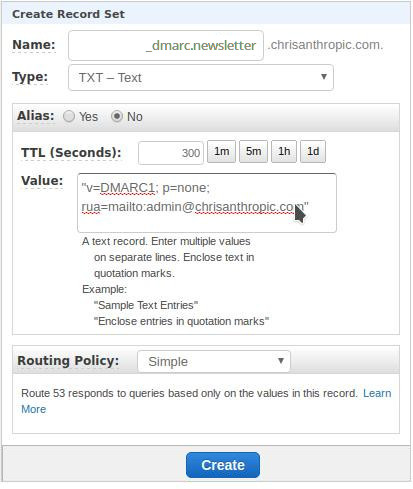
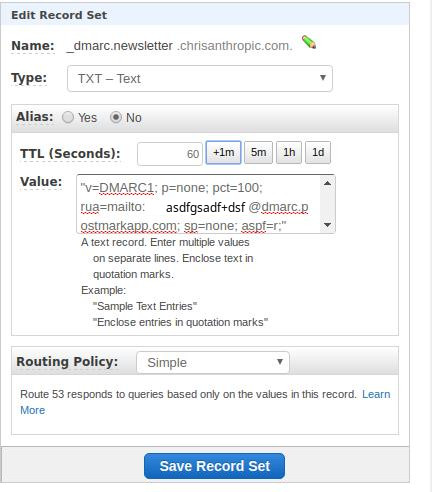
update post

diff --git a/_posts/2016-12-04-sending-mail-ses-route53-dkim-spf-dmarc.md b/_posts/2016-12-04-sending-mail-ses-route53-dkim-spf-dmarc.md
@@ -105,7 +105,17 @@ Now it's time to set up our Custom MAIL FROM Domain. Essentially, this allows SE
 ## **SPF-DMARC**
 Ok, confession time. I've never done a lot of research into DMARC before and this project is no different. I skimmed the official docs as well as AWS docs and have a _working_ solution. If anyone knows of better configs or known issues, I'm all ears.
 
-This part is mostly from [AWS directly](https://docs.aws.amazon.com/ses/latest/DeveloperGuide/mail-from-set.html) just in an easier to read format.
+**UPDATE**
+Thanks to user `inopinatus` on [Hacker News](https://news.ycombinator.com/item?id=13101926#13102127) for suggesting [https://dmarc.postmarkapp.com/](https://dmarc.postmarkapp.com/) as a DMARC aggregator to prevent annoyingly noisy DMARC status reports being emailed to you daily from multiple ISPs.
+
+- Go to [https://dmarc.postmarkapp.com/](https://dmarc.postmarkapp.com/) to create your free account
+  - Enter any email address to receive your DMARC status reports
+  - Enter your new subdomain in the **Send reports about this domain** field. Our example would be **newsletter.chrisanthropic.com**
+  ![DMARC](/images/posts/016-verify.jpg)
+
+- Now you should see a screen similar to this:
+  ![DMARC](/images/posts/017-verify.jpg)
+- Leave this tab/window/screen open and navigate to your AWS dashboard in another tab/window/screen.
 
 - Go to your AWS dash and navigate to the Route 53 dash
 - Go to **Hosted Zones** and click on your domain
@@ -114,8 +124,7 @@ This part is mostly from [AWS directly](https://docs.aws.amazon.com/ses/latest/D
   - Name: `_dmarc.newsletter`.yourdomain.com
   - Type: `TXT - Text`
   - TTL: 300/default is fine
-  - Value: `"v=DMARC1; p=none; rua=mailto:you@yourdomain.com"`
-    - Change **you@yourdomain.com** to a valid email address
+  - Value: `"COPY AND PASTE THE CONTENTS FROM THE PREVIOUS STEP"`
 - Click **Create**
 
 ## **WRAP-UP**
